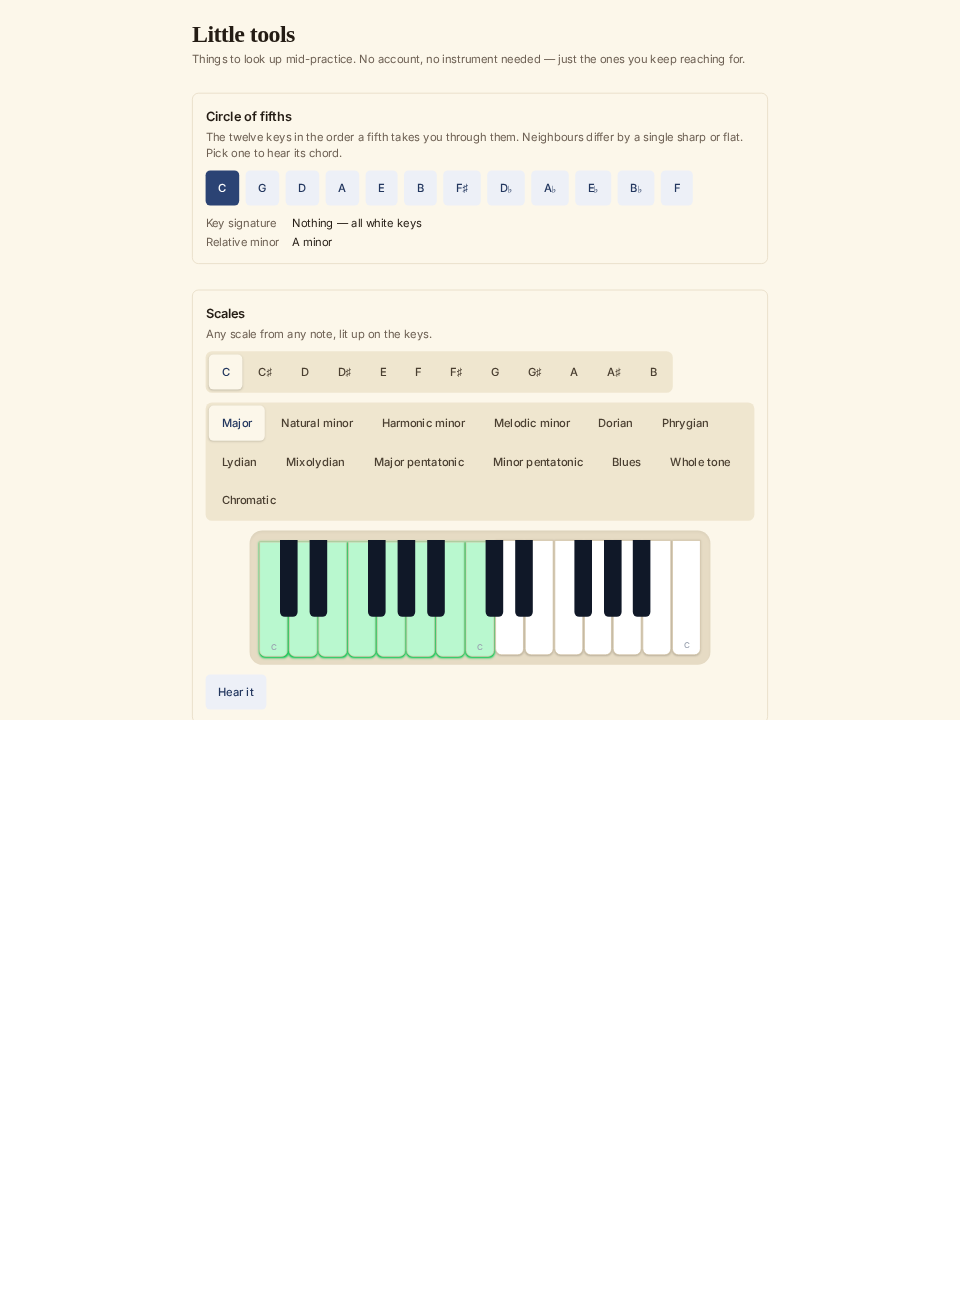
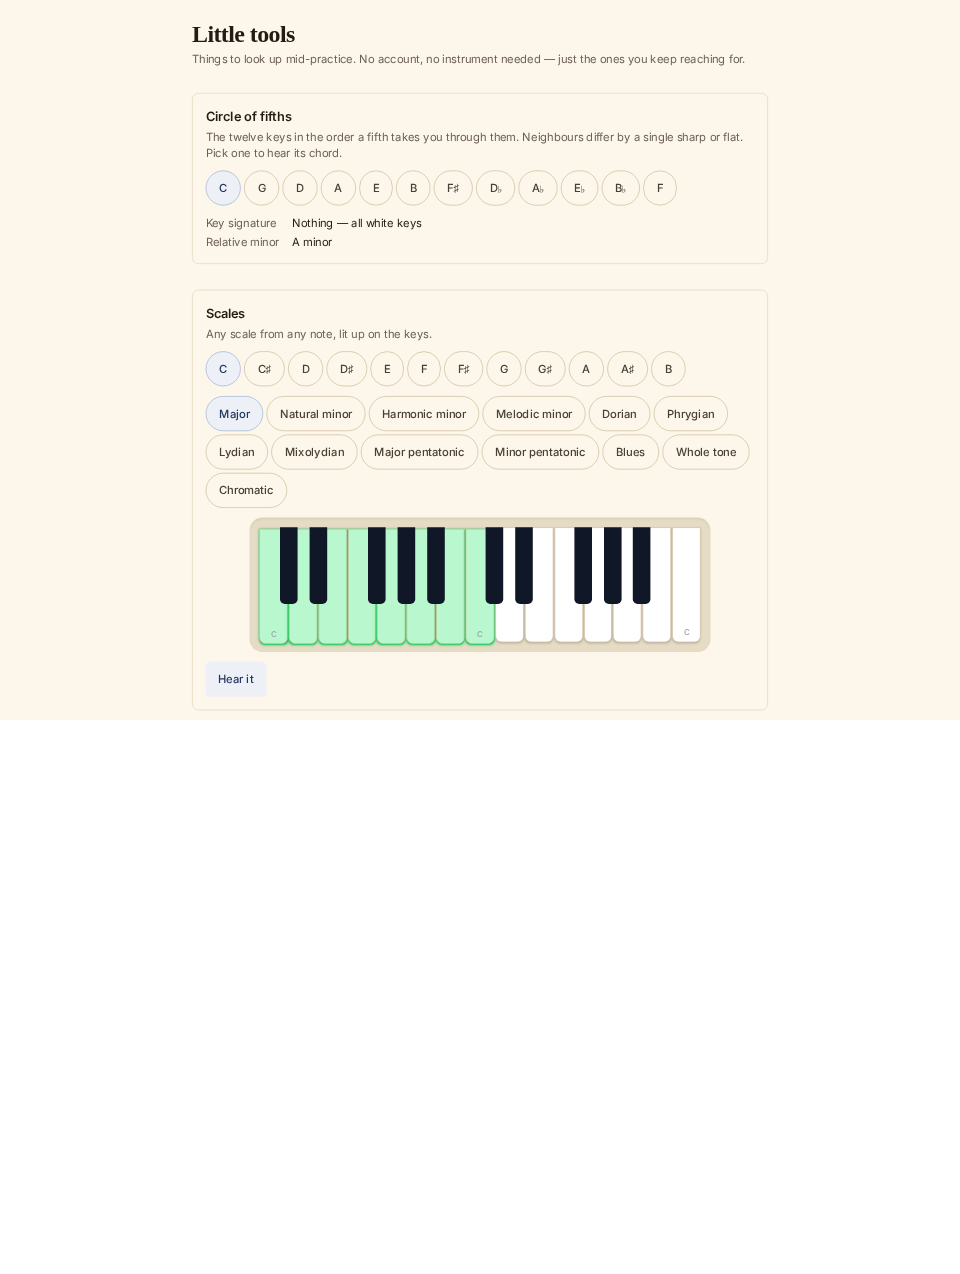
fix(ui): a picker that survives wrapping, and one grammar for picking
SegmentedControl put its options in a recessed track, which reads as one control while the
options fit a line or two and as a tag cloud the moment they wrap: twelve keys and
thirteen scale names became a tan slab half a phone screen tall, with the lifted segment
lost inside it. Past six options it now drops the track and outlines each option — same
tablist, same behaviour, a shape that survives wrapping — so every caller past that count
improves at once rather than each one being fixed by hand.

The circle of fifths drew its twelve keys as Buttons, primary for the chosen one: the
filled primary means "the thing to press" everywhere else, and eleven keys you have not
chosen are not that. It is a SegmentedControl now, like the scale and chord roots two
panels below it, so one gesture has one grammar on the page it is used three times on.

diff --git a/app/components/ui/segmentedControl.tsx b/app/components/ui/segmentedControl.tsx
@@ -5,6 +5,15 @@
 // a recessed track and the chosen one lifts out as a card — visually distinct from the
 // filled primary Button — so a tab can't be mistaken for "the thing to press". Touch-
 // first, so each segment clears the 44px target. Rendered as an ARIA tablist.
+//
+// Past a handful of options the track stops being a track: twelve keys or thirteen scale
+// names wrap into a solid tinted slab that reads as a tag cloud, and the one lifted
+// segment is lost in it. Beyond that count the same control drops the track and outlines
+// each option instead — same roles, same behaviour, a shape that survives wrapping.
+
+// Where a row of segments stops reading as one control. Six fits a phone on one or two
+// lines; the twelve-key and thirteen-scale pickers are the ones this is for.
+const TRACK_LIMIT = 6;
 
 type Option<T extends string> = { id: T; label: string };
 
@@ -23,11 +32,12 @@ export function SegmentedControl<T extends string>({
     disabled?: boolean;
     className?: string;
 }) {
+    const loose = options.length > TRACK_LIMIT;
     return (
         <div
             role="tablist"
             aria-label={label}
-            className={`inline-flex flex-wrap gap-1 rounded-lg bg-subtle p-1 ${className}`}
+            className={`inline-flex flex-wrap gap-1 ${loose ? "" : "rounded-lg bg-subtle p-1"} ${className}`}
         >
             {options.map((option) => {
                 const selected = option.id === value;
@@ -39,13 +49,22 @@ export function SegmentedControl<T extends string>({
                         aria-selected={selected}
                         disabled={disabled}
                         onClick={() => onChange(option.id)}
-                        className={`inline-flex min-h-11 items-center justify-center rounded-md px-4 text-sm font-medium transition-colors disabled:opacity-50 ${
-                            selected
-                                ? "bg-surface text-accent-strong shadow-sm"
-                                : // `body`, not `muted`: an unselected tab is a control the
-                                  // reader is meant to act on, and it sits on the tinted
-                                  // track, where helper-text grey drops under 4.5:1.
-                                  "text-body hover:text-ink"
+                        className={`inline-flex min-h-11 items-center justify-center px-4 text-sm font-medium transition-colors disabled:opacity-50 ${
+                            loose
+                                ? `rounded-full border ${
+                                      selected
+                                          ? "border-accent-line-strong bg-accent-surface text-accent-strong"
+                                          : "border-line-strong text-body hover:border-accent-line-strong hover:text-accent-strong"
+                                  }`
+                                : `rounded-md ${
+                                      selected
+                                          ? "bg-surface text-accent-strong shadow-sm"
+                                          : // `body`, not `muted`: an unselected tab is a
+                                            // control the reader is meant to act on, and it
+                                            // sits on the tinted track, where helper-text
+                                            // grey drops under 4.5:1.
+                                            "text-body hover:text-ink"
+                                  }`
                         }`}
                     >
                         {option.label}

diff --git a/app/routes/tools.tsx b/app/routes/tools.tsx
@@ -90,18 +90,24 @@ function CircleOfFifths() {
     };
     return (
         <Panel title={m.tools_circle_title()} hint={m.tools_circle_hint()}>
-            <ul className="flex flex-wrap gap-2">
-                {CIRCLE.map((key) => (
-                    <li key={key.tonic}>
-                        <Button
-                            variant={key.tonic === selected.tonic ? "primary" : "secondary"}
-                            onClick={() => pick(key)}
-                        >
-                            {spell(key.tonic, key)}
-                        </Button>
-                    </li>
-                ))}
-            </ul>
+            {/* Picking one of twelve is the same gesture as picking one of thirteen
+                scales two panels down, so it is the same control — a filled primary
+                Button meant "the thing to press", which a key you have not chosen is
+                not. */}
+            <SegmentedControl
+                options={CIRCLE.map((key) => ({
+                    id: String(key.tonic),
+                    label: spell(key.tonic, key),
+                }))}
+                value={String(selected.tonic)}
+                onChange={(tonic) => {
+                    const key = CIRCLE.find((one) => String(one.tonic) === tonic);
+                    if (key) {
+                        pick(key);
+                    }
+                }}
+                label={m.tools_circle_title()}
+            />
             <dl className="grid grid-cols-[auto_1fr] gap-x-4 gap-y-1 text-sm">
                 <dt className="text-muted">{m.tools_circle_signature()}</dt>
                 <dd>

diff --git a/app/routes/tools.test.tsx b/app/routes/tools.test.tsx
@@ -18,7 +18,9 @@ describe("ToolsRoute", () => {
         for (const key of CIRCLE) {
             // Each key spells its own tonic: the flat side reads D♭, not C♯.
             const name = NOTE_TEXT[noteNameOf(key.tonic, key.spelling)];
-            expect(screen.getAllByRole("button", { name }).length).toBeGreaterThan(0);
+            // The keys are one control now, not twelve buttons: picking one of twelve is
+            // the same gesture as picking one of thirteen scales below them.
+            expect(screen.getAllByRole("tab", { name }).length).toBeGreaterThan(0);
         }
     });
 
@@ -31,7 +33,7 @@ describe("ToolsRoute", () => {
     it("names the signature and relative minor of the key picked", () => {
         renderWithServices(<ToolsRoute />);
         // D major: two sharps, F♯ and C♯, relative minor B.
-        fireEvent.click(screen.getAllByRole("button", { name: "D" })[0] as HTMLElement);
+        fireEvent.click(screen.getAllByRole("tab", { name: "D" })[0] as HTMLElement);
         expect(screen.getByText("F♯ · C♯")).toBeTruthy();
         expect(screen.getByText(m.tools_circle_minor({ note: "B" }))).toBeTruthy();
     });

diff --git a/NEWS.md b/NEWS.md
@@ -107,6 +107,14 @@ So a quaver in the right hand emptied as slowly as the whole note under it in th
 long after your right hand had moved on. Each key now drains on the length that is
 actually written for it.
 
+**Picking one of twelve looks like picking one of twelve.** A row of choices sat in a
+tinted track, which works for two or three and turns into a solid slab the moment it
+wraps — the twelve keys of the circle of fifths and the thirteen scale names filled half a
+phone screen with tan, and the one you had chosen was lost in it. Past six options the
+same control now drops the track and outlines each choice instead. The circle of fifths
+also stops using filled buttons for the twelve keys: a key you have not picked was drawn
+as "the thing to press", which is what the button style means everywhere else in Plinky.
+
 **Music has a Composers tab.** Seven hundred and fifty people are credited in the
 catalogue, each with a page of their own — and the only way to reach one was to find a
 piece of theirs first, which is backwards if what you want is "something by Satie". They
